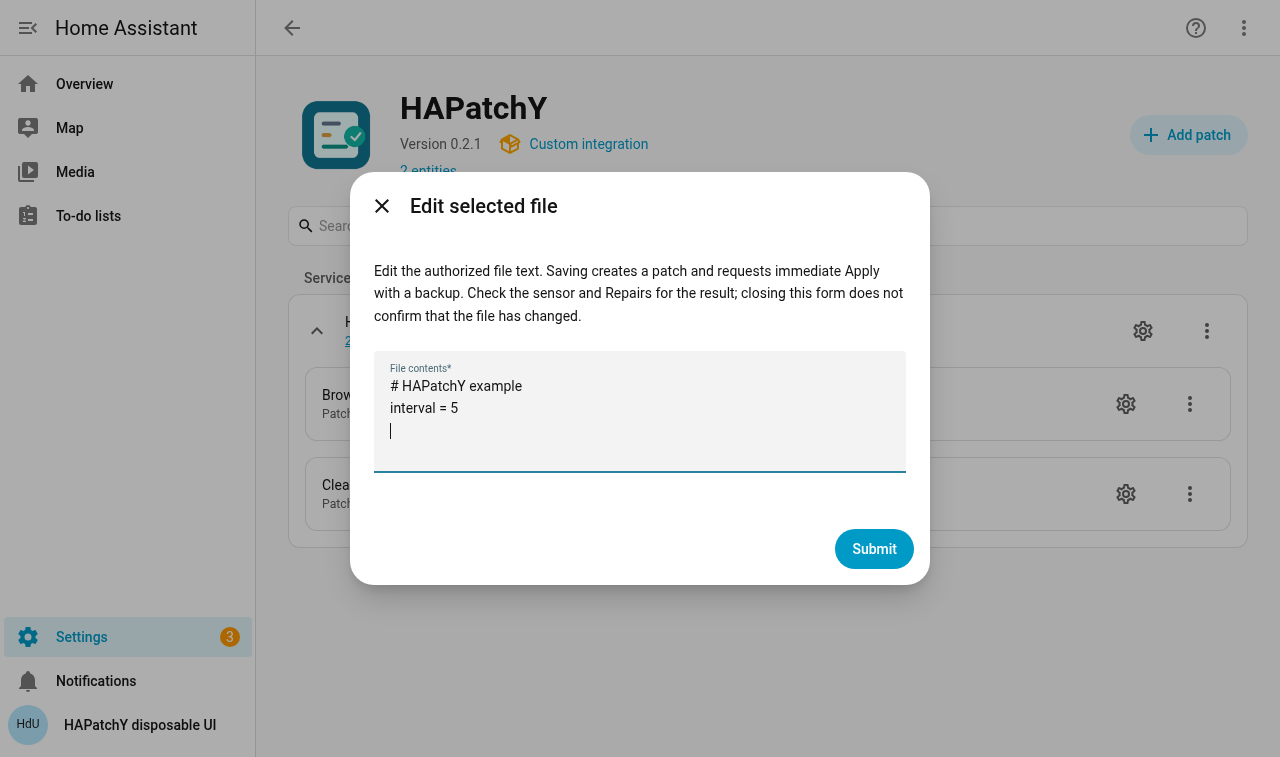
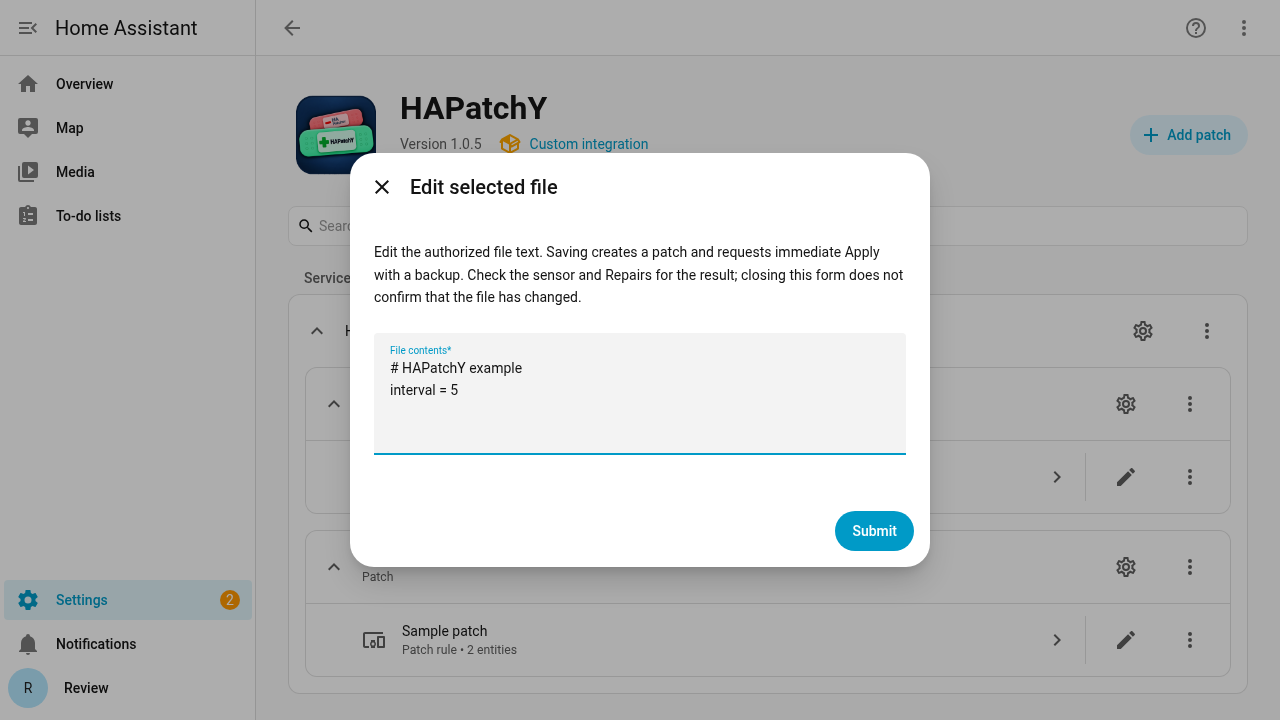
docs: refresh Home Assistant screenshots for current branding

diff --git a/docs/reference.md b/docs/reference.md
@@ -153,7 +153,7 @@ target file's contents. It contains no file or patch text. The status sensor's
 stable unique ID is retained when an existing patch gains a device; an entity
 ID previously customized in HA is not deliberately renamed.
 
-![Patch health and Status both show Unknown before the first check in disposable HA 2026.9.0](images/patch-health-unknown.png)
+![A disabled patch shows Patch health Unknown and Status Disabled in disposable HA 2026.9.0](images/patch-health-unknown.png)
 
 ## Administrator actions
 
